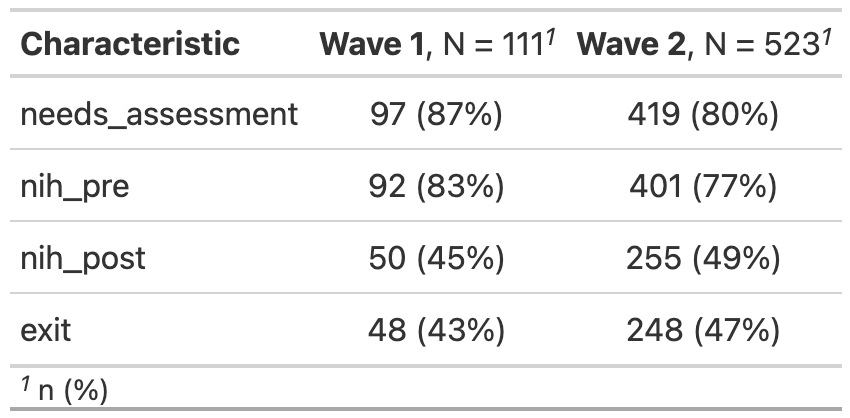
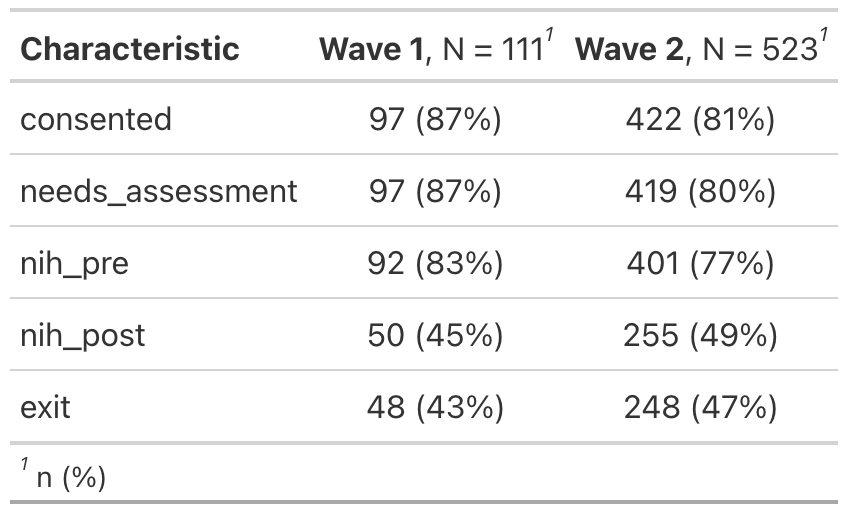
Add "consented" as a phase

diff --git a/reports/notebooks/participant_count_and_attrition.md b/reports/notebooks/participant_count_and_attrition.md
@@ -29,6 +29,17 @@ What about overall number of institutions across both waves?
 
     ## [1] 78
 
+Limited only to participants that consented
+
+| wave   | n_institutions |
+|:-------|---------------:|
+| Wave 1 |             23 |
+| Wave 2 |             58 |
+
+Across both waves?
+
+    ## [1] 64
+
 Limited only to participants that made it all the way through the exit
 survey:
 
